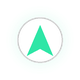
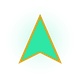
Cinq corrections d ecran de la capture du 1er novembre
TRACE D'UN SEUL VERT. Il s'affichait en deux teintes : vert pale derriere le
vehicule, vert franc devant, pour montrer ou l'on en est. Le client le refuse,
et la capture lui donne raison — sur une carte claire, le vert a 25 % ne se
distingue plus d'une route ordinaire, et le trace semblait COUPE au niveau du
vehicule, comme si l'itineraire commencait la. L'opacite de la portion
parcourue passe a 1. Elle reste une constante : les bandes de trafic passent
par le meme mecanisme, et il n'y a qu'un nombre a changer pour revenir.

LE CURSEUR DE POSITION PERD SON DISQUE BLANC. Il avait ete ajoute pour une
vraie raison : la fleche etait remplie de la couleur de l'itineraire et posee
SUR cet itineraire, donc invisible, et il ne restait d'elle qu'un lisere de
deux pixels — defaut que le client avait lui-meme signale. Il demande
aujourd'hui le curseur d'avant, << vert avec un petit peu de jaune >>.

On retire le disque sans ramener le defaut : le lisere passe du blanc a l'OR de
WIN, en 3,5 points. L'or entoure deja tous les marqueurs de l'application, il
se detache du vert du trace comme du beige du fond, et c'est exactement le
jaune demande. La fleche retrouve sa taille d'origine, qui avait ete reduite
pour tenir dans le disque disparu. Les deux versions sont corrigees ensemble,
le dessin SVG et les six images.

LA CARTE D'ALERTE REMONTE SOUS LA BANDE DE DIRECTION. Elle vivait en bas a
gauche, seul endroit libre tant que la consigne de conduite occupait elle-meme
[…]

Changed region(s): [[0.2, 0.175, 0.8, 0.8]]

diff --git a/apps/mobile/src/components/AlerteApproche.tsx b/apps/mobile/src/components/AlerteApproche.tsx
@@ -1,6 +1,5 @@
 import { useTranslation } from 'react-i18next';
 import { Pressable, StyleSheet, Text, View } from 'react-native';
-import { useSafeAreaInsets } from 'react-native-safe-area-context';
 import { REPORT_EMOJI } from '../reports/kinds';
 import { REPORT_COLORS } from '../map/style';
 import { formatDistance, type Report } from '../shared';
@@ -25,15 +24,27 @@ import { radius, spacing } from '../theme';
  * feuille de vote complete comme avant. Ce qui change, c'est qu'on ne la subit plus : on la
  * demande.
  *
- * BAS-GAUCHE, AU-DESSUS DE LA BARRE ANDROID. La colonne des dix boutons occupe la droite, la
- * consigne de conduite occupe le haut : le coin bas-gauche est le seul endroit libre pendant
- * la navigation. La barre systeme n'est jamais couverte — le client l'ecrit deux fois.
+ * ELLE REMONTE SOUS LA BANDE DE DIRECTION — 1er novembre.
+ *
+ * Elle vivait en bas a gauche, seul endroit libre tant que la consigne de conduite occupait
+ * elle-meme le bas de l'ecran. Depuis que la consigne est rentree dans le bandeau du haut, ce
+ * coin ne l'est plus : la carte s'y est deplacee, et la capture du client le montre — l'alerte
+ * recouvre le bouton << Recentrer >> et mord sur le cadre de progression.
+ *
+ * Elle se pose donc JUSTE SOUS le bandeau, a droite des deux pastilles de vitesse et a gauche
+ * de la colonne de boutons. C'est la seule bande horizontale libre de l'ecran, et elle a
+ * l'avantage d'etre a cote de ce qu'on regarde deja : la consigne de conduite.
+ *
+ * ET ELLE RETRECIT. Le client demande qu'elle << ne gene pas pour avoir l'itineraire >>. Sa
+ * largeur n'est plus fixe : elle occupe ce qui reste entre les pastilles et les boutons, et
+ * les corps de texte perdent un a deux points. Une carte d'avertissement n'a pas besoin d'etre
+ * grande pour etre lue — elle a besoin d'etre AILLEURS que sur la route.
  */
 
-/** 230 x 110 points, valeurs du client. La hauteur n'est pas imposee : elle s'adapte au texte,
- *  le minimum garantissant que la carte ne se reduise jamais a une ligne illisible. */
-const LARGEUR = 230;
-const HAUTEUR_MIN = 110;
+/** Largeur maximale. La carte prend ce qui reste entre les pastilles de vitesse et la colonne
+ *  de boutons, sans jamais depasser cette valeur : sur une tablette, une carte de 400 points
+ *  de large pour trois lignes de texte serait ridicule. */
+const LARGEUR_MAX = 230;
 
 /** Epaisseur de la barre de couleur en tete de carte (5 dp chez le client). */
 const BARRE = 5;
@@ -53,21 +64,31 @@ type Props = {
   onGarder: () => void;
   /** « OUI, desactiver » : les alertes de proximite s'arretent, jusqu'a reactivation. */
   onDesactiver: () => void;
+  /** Bas du bandeau du haut : la carte se pose juste dessous. */
+  top: number;
+  /** Largeur de la colonne de boutons a degager, a droite. */
+  right: number;
+  /** Largeur des pastilles de vitesse a degager, a gauche. */
+  left: number;
 };
 
-export function AlerteApproche({ report, distanceM, onGarder, onDesactiver }: Props) {
+export function AlerteApproche({
+  report,
+  distanceM,
+  onGarder,
+  onDesactiver,
+  top,
+  right,
+  left,
+}: Props) {
   const { t } = useTranslation();
-  const insets = useSafeAreaInsets();
   if (!report) return null;
 
   const couleur = REPORT_COLORS[report.kind] ?? VERT;
   const libelle = t(`report.${report.kind}`);
 
   return (
-    <View
-      style={[styles.ancrage, { bottom: spacing.md + insets.bottom, left: spacing.md }]}
-      pointerEvents="box-none"
-    >
+    <View style={[styles.ancrage, { top, left, right }]} pointerEvents="box-none">
       <View style={styles.carte}>
         {/* LA CROIX DE FERMETURE (correction C7 du 31 octobre). La carte se referme deja
             seule au bout de six secondes ; la croix sert a celui qui veut la retirer TOUT DE
@@ -148,8 +169,7 @@ export function AlerteApproche({ report, distanceM, onGarder, onDesactiver }: Pr
 const styles = StyleSheet.create({
   ancrage: { position: 'absolute' },
   carte: {
-    width: LARGEUR,
-    minHeight: HAUTEUR_MIN,
+    maxWidth: LARGEUR_MAX,
     backgroundColor: FOND,
     /* BORDURE VERTE FINE, coins de 12 (correction C6 du 31 octobre). Un point d'epaisseur
      * suffit : la carte est posee sur une carte routiere dont les teintes changent sans arret,
@@ -185,14 +205,14 @@ const styles = StyleSheet.create({
   symbole: { fontSize: 11 },
 
   titres: { flex: 1, minWidth: 0 },
-  nom: { color: TEXTE, fontSize: 13, fontWeight: '800' as const },
-  sousTitre: { color: TEXTE_DOUX, fontSize: 10 },
+  nom: { color: TEXTE, fontSize: 12, fontWeight: '800' as const },
+  sousTitre: { color: TEXTE_DOUX, fontSize: 9.5 },
 
   badge: { borderRadius: radius.pill, paddingHorizontal: 7, paddingVertical: 2 },
-  badgeTexte: { color: '#FFFFFF', fontSize: 11, fontWeight: '800' as const },
+  badgeTexte: { color: '#FFFFFF', fontSize: 10, fontWeight: '800' as const },
 
   trait: { height: StyleSheet.hairlineWidth, backgroundColor: TRAIT, marginVertical: 1 },
-  question: { color: TEXTE, fontSize: 11, fontWeight: '700' as const },
+  question: { color: TEXTE, fontSize: 10, fontWeight: '700' as const },
 
   boutons: { flexDirection: 'row', gap: 6 },
   oui: {
@@ -202,9 +222,9 @@ const styles = StyleSheet.create({
     paddingVertical: 6,
     alignItems: 'center',
   },
-  ouiTexte: { color: '#FFFFFF', fontSize: 10, fontWeight: '800' as const },
+  ouiTexte: { color: '#FFFFFF', fontSize: 9.5, fontWeight: '800' as const },
   non: { flex: 1, borderRadius: radius.sm, paddingVertical: 6, alignItems: 'center' },
-  nonTexte: { color: TEXTE, fontSize: 10, fontWeight: '800' as const },
+  nonTexte: { color: TEXTE, fontSize: 9.5, fontWeight: '800' as const },
 
   etat: { flexDirection: 'row', alignItems: 'center', gap: 5 },
   point: { width: 6, height: 6, borderRadius: 3, backgroundColor: '#2BA84A' },

diff --git a/apps/mobile/src/components/NavArrow.tsx b/apps/mobile/src/components/NavArrow.tsx
@@ -1,6 +1,6 @@
 import { useEffect, useRef } from 'react';
 import { Animated, Easing, StyleSheet, View } from 'react-native';
-import Svg, { Circle, Path } from 'react-native-svg';
+import Svg, { Path } from 'react-native-svg';
 
 /**
  * Fleche de position pendant le guidage.
@@ -22,31 +22,32 @@ const BOX = 128;
 const CX = BOX / 2;
 
 /**
- * LE DISQUE BLANC EST LE CORRECTIF, PAS UN ORNEMENT.
+ * LE DISQUE BLANC EST RETIRE, A LA DEMANDE DU CLIENT — 1er novembre.
  *
- * La fleche etait remplie de la couleur de l'itineraire, et posee SUR cet itineraire : deux
- * surfaces de la meme teinte l'une sur l'autre ne font qu'une seule forme. Il ne restait d'elle
- * que son liseré blanc — deux pixels de large a l'ecran — ce qui donnait le trait fin et
- * incertain que le client a releve. Le commentaire d'origine avait vu le risque et comptait sur
- * ce liseré pour y parer ; il etait trop mince pour cela.
+ * Il avait ete ajoute pour une vraie raison : la fleche etait remplie de la couleur de
+ * l'itineraire et posee SUR cet itineraire ; deux surfaces de la meme teinte l'une sur
+ * l'autre ne font qu'une seule forme, et il ne restait d'elle qu'un lisere blanc de deux
+ * pixels. Le client avait lui-meme signale ce trait fin et incertain.
  *
- * Un disque blanc OPAQUE dessous regle le probleme a la source : quoi qu'il y ait sous le
- * curseur — le trace vert, une route jaune, un parc — la fleche se detache toujours, puisque
- * ce n'est plus le fond de carte qui la porte mais un fond a nous.
+ * Il demande aujourd'hui de revenir au curseur d'avant, << vert avec un petit peu de jaune >>,
+ * sans ce fond blanc. On applique sa demande — mais pas au prix du defaut qu'elle avait
+ * corrige : le lisere passe du blanc a l'OR de WIN, en 3,5 points au lieu de 2. L'or est la
+ * couleur qui entoure deja tous les marqueurs de l'application, il se detache du vert du trace
+ * comme du beige du fond, et il donne exactement le << petit peu de jaune >> demande.
  *
- * L'anneau sombre qui le borde sert au cas inverse : sur le beige clair du fond de carte, un
- * disque blanc sans contour se dissout a son tour.
+ * La fleche retrouve aussi sa taille d'origine — pointe a 16, base a 108, demi-largeur 40 —
+ * qui avait ete reduite pour tenir dans le disque disparu.
  */
-const RAYON_DISQUE = 52;
-const EPAISSEUR_ANNEAU = 3;
+/** L'or des marqueurs WIN, repris de signalisation.ts. */
+const OR = '#D4A017';
+const EPAISSEUR_LISERE = 3.5;
 
 /** Pointe, base et creux arriere : un triangle dont le bas est legerement rentre, ce qui lui
- * donne sa direction d'un coup d'oeil la ou un triangle plat parait pose au hasard.
- * Il est RETRECI pour tenir dans le disque, avec de la marge blanche tout autour. */
-const TIP_Y = 30;
-const BASE_Y = 100;
-const HALF_WIDTH = 30;
-const NOTCH_Y = 84;
+ * donne sa direction d'un coup d'oeil la ou un triangle plat parait pose au hasard. */
+const TIP_Y = 16;
+const BASE_Y = 108;
+const HALF_WIDTH = 40;
+const NOTCH_Y = 88;
 
 const PATH = [
   `M ${CX} ${TIP_Y}`,
@@ -94,16 +95,14 @@ export function NavArrow({ size, color = '#0D6E4F' }: { size: number; color?: st
         ]}
       />
       <Svg width={size} height={size} viewBox={`0 0 ${BOX} ${BOX}`}>
-        {/* Le disque, puis la fleche par-dessus : voir la note en tete de fichier. */}
-        <Circle
-          cx={CX}
-          cy={CX}
-          r={RAYON_DISQUE}
-          fill="#FFFFFF"
-          stroke="rgba(0,0,0,0.22)"
-          strokeWidth={EPAISSEUR_ANNEAU}
+        {/* La fleche verte, cernee d'or : voir la note en tete de fichier. */}
+        <Path
+          d={PATH}
+          fill={color}
+          stroke={OR}
+          strokeWidth={EPAISSEUR_LISERE}
+          strokeLinejoin="round"
         />
-        <Path d={PATH} fill={color} strokeLinejoin="round" />
       </Svg>
     </View>
   );

diff --git a/apps/mobile/app/index.tsx b/apps/mobile/app/index.tsx
@@ -318,7 +318,22 @@ function pointAtDistance(route: Route, metres: number): [number, number] | null 
  * fond devant. Le chemin parcouru reste reconnaissable comme etant le trajet — ce que le gris
  * ne disait pas — et il n'y a plus qu'une valeur a comprendre.
  */
-const OPACITE_PARCOURU = 0.25;
+/**
+ * OPACITE DE LA PORTION DEJA PARCOURUE — mise a 1 le 1er novembre, a la demande du client.
+ *
+ * Le trace s'affichait en deux teintes : vert pale derriere le vehicule, vert franc devant.
+ * L'idee etait de montrer d'un coup d'oeil ou l'on en est. Le client la refuse : << la couleur
+ * sera verte, je ne veux pas de degradement de la couleur, ce sera tres vert >>.
+ *
+ * Il a une raison que la capture rend evidente : sur une carte claire, le vert a 25 % ne se
+ * distingue plus d'une route ordinaire. Le trace semblait COUPE au niveau du vehicule, comme
+ * si l'itineraire commencait la — alors qu'on voulait seulement dire qu'il etait deja fait.
+ *
+ * La valeur reste une constante plutot qu'une suppression du code : les bandes de trafic
+ * passent par le meme mecanisme, et le jour ou l'on voudra remontrer la progression, il n'y a
+ * qu'un nombre a changer.
+ */
+const OPACITE_PARCOURU = 1;
 
 /**
  * COLORATION DU TRAFIC SUR LE TRACE (point 6 du client, 27 octobre).
@@ -2759,9 +2774,25 @@ ${t(`report.badge_${report.kind}`)}`,
 
       {/* CARTE D'ALERTE COMPACTE (point 17). Elle ne remplace pas la feuille de vote : elle
           remplace le fait de l'IMPOSER a l'approche. */}
+      {/* SOUS LA BANDE DE DIRECTION, entre les pastilles de vitesse et la colonne de boutons
+          (demande du 1er novembre). Elle etait en bas a gauche, ou elle recouvrait le bouton
+          « Recentrer » et mordait sur le cadre de progression depuis que la consigne de
+          conduite est remontee dans le bandeau.
+
+          Hors navigation il n'y a pas de bandeau : on repart alors du bas de l'en-tete, pour
+          que la carte ne se colle pas a la barre d'etat. */}
       <AlerteApproche
         report={approche?.report ?? null}
         distanceM={approche?.distanceM ?? null}
+        top={
+          (navBounds.bannerBottom > 0
+            ? navBounds.bannerBottom
+            : insets.top + HEADER_HEIGHT + (topBlockH || HIT_SIZE)) + spacing.sm
+        }
+        // Degage les deux pastilles de vitesse, posees a gauche sous le bandeau.
+        left={spacing.md + 72}
+        // Degage la colonne de boutons, comme le bandeau des alertes officielles.
+        right={spacing.lg + fabPrimarySize + spacing.md}
         onGarder={() => setApproche(null)}
         onDesactiver={() => {
           setApproche(null);

diff --git a/apps/mobile/scripts/make-nav-arrow.py b/apps/mobile/scripts/make-nav-arrow.py
@@ -50,9 +50,12 @@ TAILLE_DP = 40
 # large, et un creux a l'arriere — c'est ce creux qui donne la direction au premier coup d'oeil
 # la ou un triangle plat parait pose au hasard.
 BOX = 128.0
-TIP_Y, BASE_Y, NOTCH_Y, HALF_WIDTH = 30.0, 100.0, 84.0, 30.0
-RAYON_DISQUE = 52.0
-EPAISSEUR_ANNEAU = 3.0
+TIP_Y, BASE_Y, NOTCH_Y, HALF_WIDTH = 16.0, 108.0, 88.0, 40.0
+
+# L'OR DES MARQUEURS WIN, qui remplace le disque blanc retire le 1er novembre a la demande du
+# client. Memes valeurs que OR_MARQUEUR dans src/map/signalisation.ts.
+OR = (212, 160, 23)
+EPAISSEUR_LISERE = 3.5
 
 
 def make_arrow(nom, couleur, scale):
@@ -74,15 +77,17 @@ def make_arrow(nom, couleur, scale):
         dessin_halo.ellipse([c - r, c - r, c + r, c + r], fill=couleur + (a,))
     img.alpha_composite(halo)
 
-    # 2) LE DISQUE BLANC, puis la fleche par-dessus.
+    # 2) LA FLECHE VERTE, CERNEE D'OR.
     #
-    #    La fleche etait remplie de la couleur de l'itineraire et posee SUR cet itineraire :
-    #    deux surfaces de la meme teinte l'une sur l'autre ne font qu'une seule forme, et il ne
-    #    restait d'elle que son liseré blanc de deux pixels. Un disque blanc OPAQUE regle cela a
-    #    la source — ce n'est plus le fond de carte qui porte la fleche mais un fond a nous.
-    #    L'anneau sombre sert au cas inverse : sur le beige clair du fond, un disque blanc sans
-    #    contour se dissout a son tour.
-    k = (S * 0.70) / BOX
+    #    Un disque blanc opaque occupait cette place : la fleche etait remplie de la couleur de
+    #    l'itineraire et posee SUR cet itineraire, donc invisible, et il ne restait d'elle qu'un
+    #    lisere de deux pixels. Le client demande aujourd'hui de revenir au curseur d'avant,
+    #    << vert avec un petit peu de jaune >>, sans ce fond blanc.
+    #
+    #    On retire le disque sans ramener le defaut : le lisere passe du blanc a l'or de WIN, en
+    #    3,5 points. L'or entoure deja tous les marqueurs de l'application, il se detache du vert
+    #    du trace comme du beige du fond, et c'est exactement le jaune demande.
+    k = (S * 0.86) / BOX
     ox = c - (BOX / 2.0) * k
     oy = c - (BOX / 2.0) * k
 
@@ -96,14 +101,12 @@ def make_arrow(nom, couleur, scale):
         pt(BOX / 2 - HALF_WIDTH, BASE_Y),
     ]
     dessin = ImageDraw.Draw(img)
-    r = RAYON_DISQUE * k
-    dessin.ellipse(
-        [c - r, c - r, c + r, c + r],
-        fill=(255, 255, 255, 255),
-        outline=(0, 0, 0, 56),
-        width=max(1, int(EPAISSEUR_ANNEAU * k)),
+    dessin.polygon(
+        triangle,
+        fill=couleur + (255,),
+        outline=OR + (255,),
+        width=max(1, int(EPAISSEUR_LISERE * k)),
     )
-    dessin.polygon(triangle, fill=couleur + (255,))
 
     suffix = '' if scale == 1 else '@%dx' % scale
     petit = img.resize((S // SS, S // SS), Image.LANCZOS)

diff --git a/apps/mobile/scripts/verifier-maquettes.py b/apps/mobile/scripts/verifier-maquettes.py
@@ -76,16 +76,29 @@ verifier(
 print("\nPOINT 17 — carte d'alerte compacte (tableau du client)")
 src = lire(ALERTE)
 
-verifier('largeur : 230 points', 'LARGEUR = 230' in src, valeur(src, r'LARGEUR = (\d+)'))
-verifier('hauteur : 110 points', 'HAUTEUR_MIN = 110' in src, valeur(src, r'HAUTEUR_MIN = (\d+)'))
+# LA CARTE A CHANGE DE PLACE LE 1er NOVEMBRE, et ce controle suit la derniere demande en
+# gardant la trace de la precedente.
+#   29/10 : 230 x 110 points, ancree en BAS A GAUCHE, au-dessus de la barre Android. C'etait
+#           le seul coin libre tant que la consigne de conduite occupait elle-meme le bas.
+#   01/11 : la consigne est rentree dans le bandeau du haut ; le bas a gauche a cesse d'etre
+#           libre — la capture du client montre la carte par-dessus « Recentrer » et le cadre
+#           de progression. Elle remonte sous la bande de direction et retrecit.
+# Sans cette note, on relira le point 17 du 29 octobre et on croira a une regression.
+verifier(
+    'largeur : au plus 230 points, mais plus imposee',
+    'LARGEUR_MAX = 230' in src,
+    'elle prend ce qui reste entre les pastilles de vitesse et la colonne de boutons',
+)
 verifier('barre de couleur en tete : 5 points', 'BARRE = 5' in src)
 verifier(
-    'position : bas-gauche',
-    'bottom:' in src and 'left:' in src and "position: 'absolute'" in src,
+    'position : sous la bande de direction, et non plus en bas',
+    'top,' in src and 'left,' in src and 'right,' in src and "position: 'absolute'" in src,
+    'le point 17 du 29 octobre la voulait en bas a gauche',
 )
 verifier(
-    'la barre systeme Android n\'est jamais couverte',
-    'insets.bottom' in src and 'useSafeAreaInsets' in src,
+    'elle ne couvre plus le cadre de progression ni le bouton Recentrer',
+    'bottom:' not in src and 'insets.bottom' not in src,
+    "c'est ce que la capture du 1er novembre reprochait",
 )
 verifier('panneau triangulaire + symbole, 22 points', 'width: 22' in src and 'height: 22' in src)
 verifier('badge de distance', 'badge' in src and 'formatDistance' in src)
